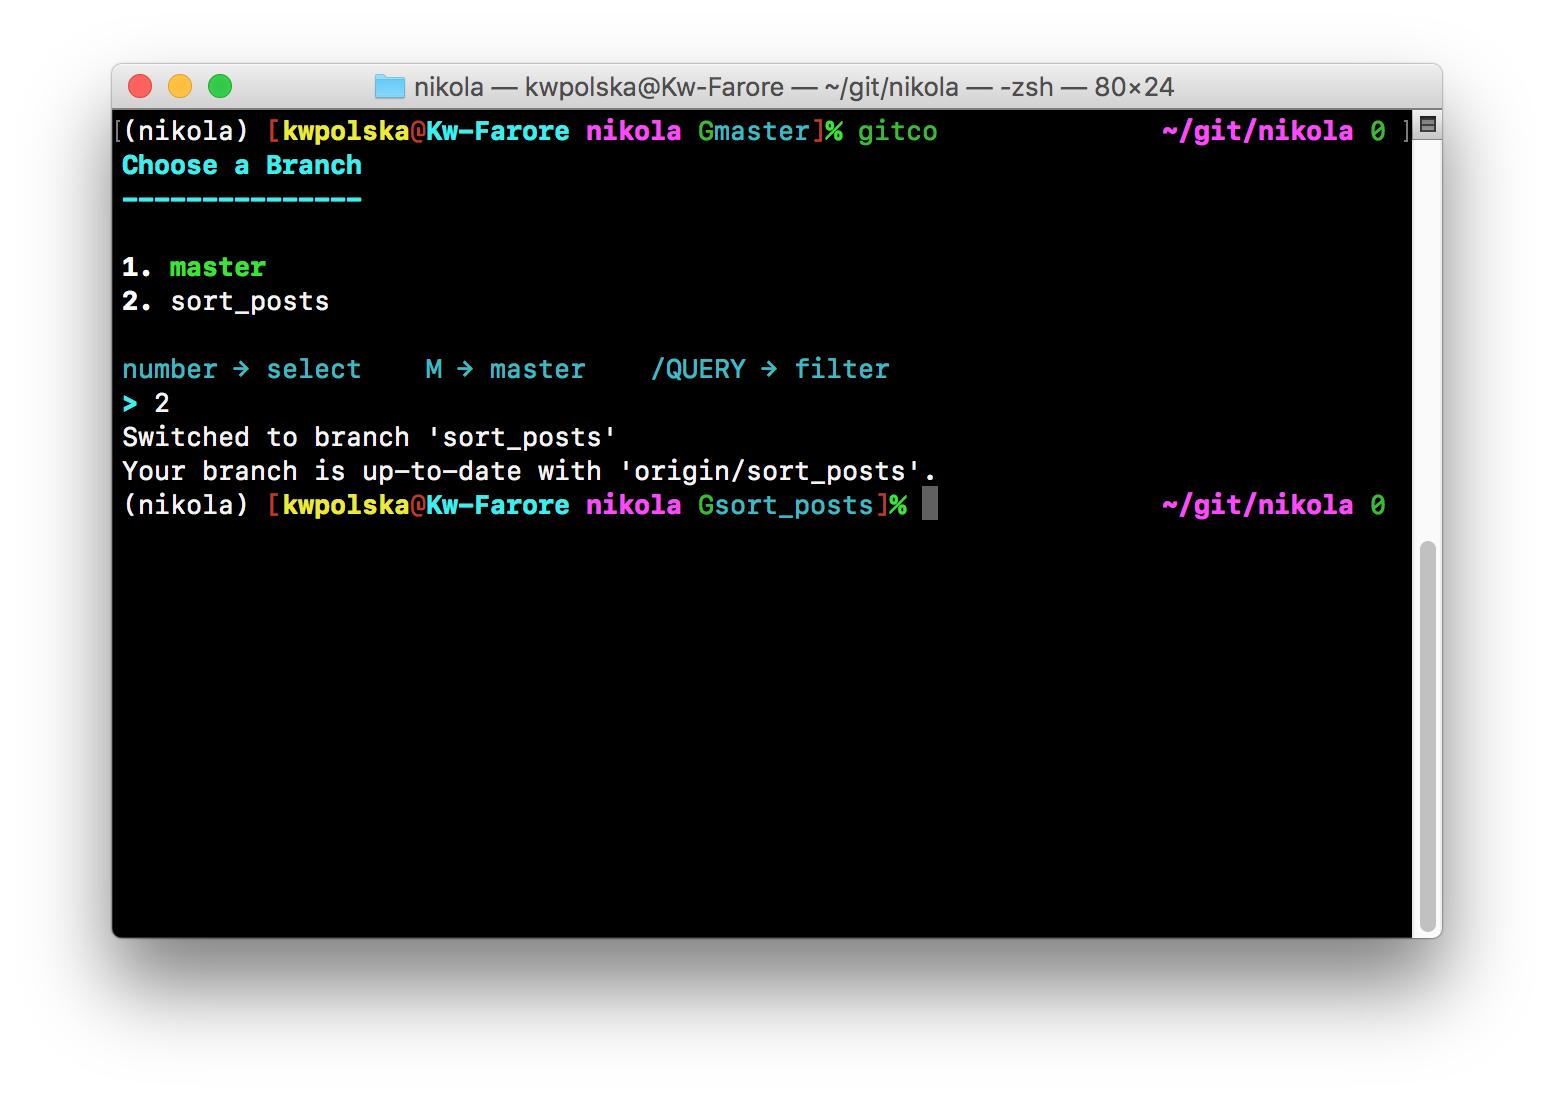
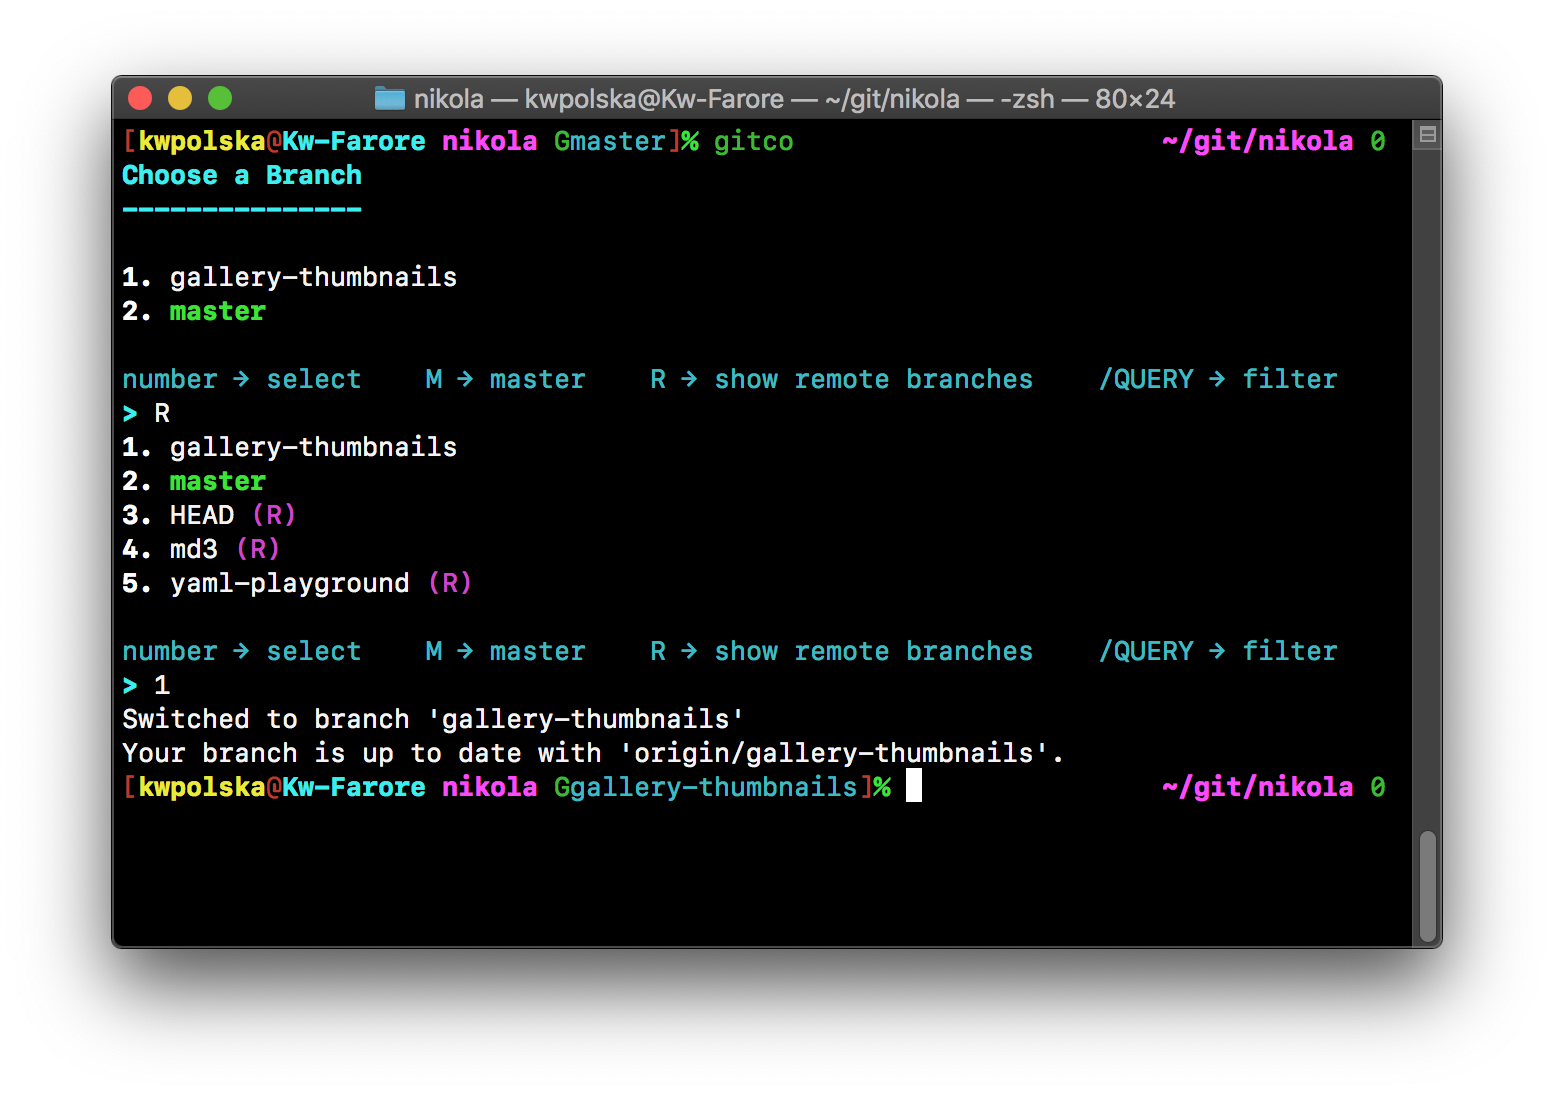
Update screenshot and documentation

diff --git a/README.md b/README.md
@@ -9,7 +9,7 @@ memorizing branch names, or copy-pasting from `git branch`.
 License
 -------
 
-Copyright © 2014-2018, Chris Warrick.
+Copyright © 2014-2019, Chris Warrick.
 All rights reserved.
 
 Redistribution and use in source and binary forms, with or without
